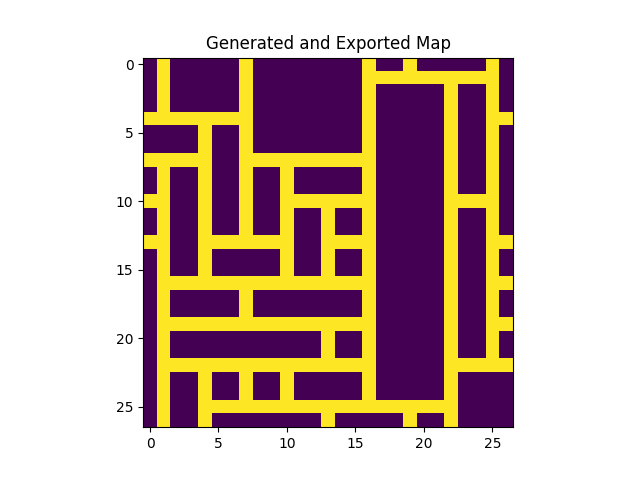
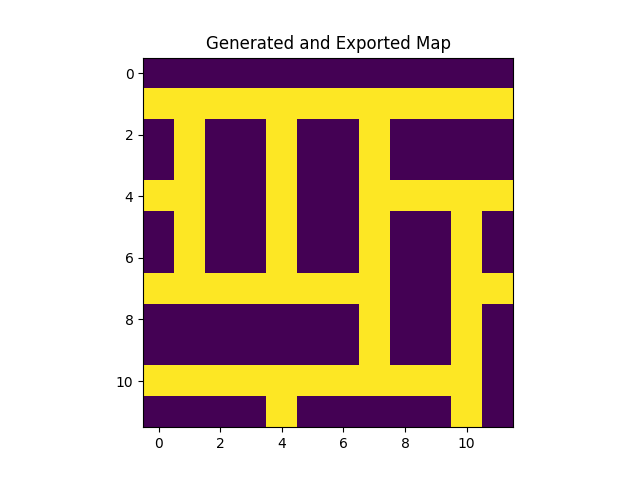
Added variety of size

Changed region(s): [[0.1875, 0.125, 0.8125, 0.9375], [0.5312, 0.9062, 0.5625, 0.9375]]

diff --git a/main.py b/main.py
@@ -2,7 +2,7 @@ from Grid import *
 import numpy as np
 import matplotlib.pyplot as plt
 
-Game = Grid(9)
+Game = Grid(15)
 Map = Game.GenerateMap()
 
 plt.title("Generated and Exported Map")
